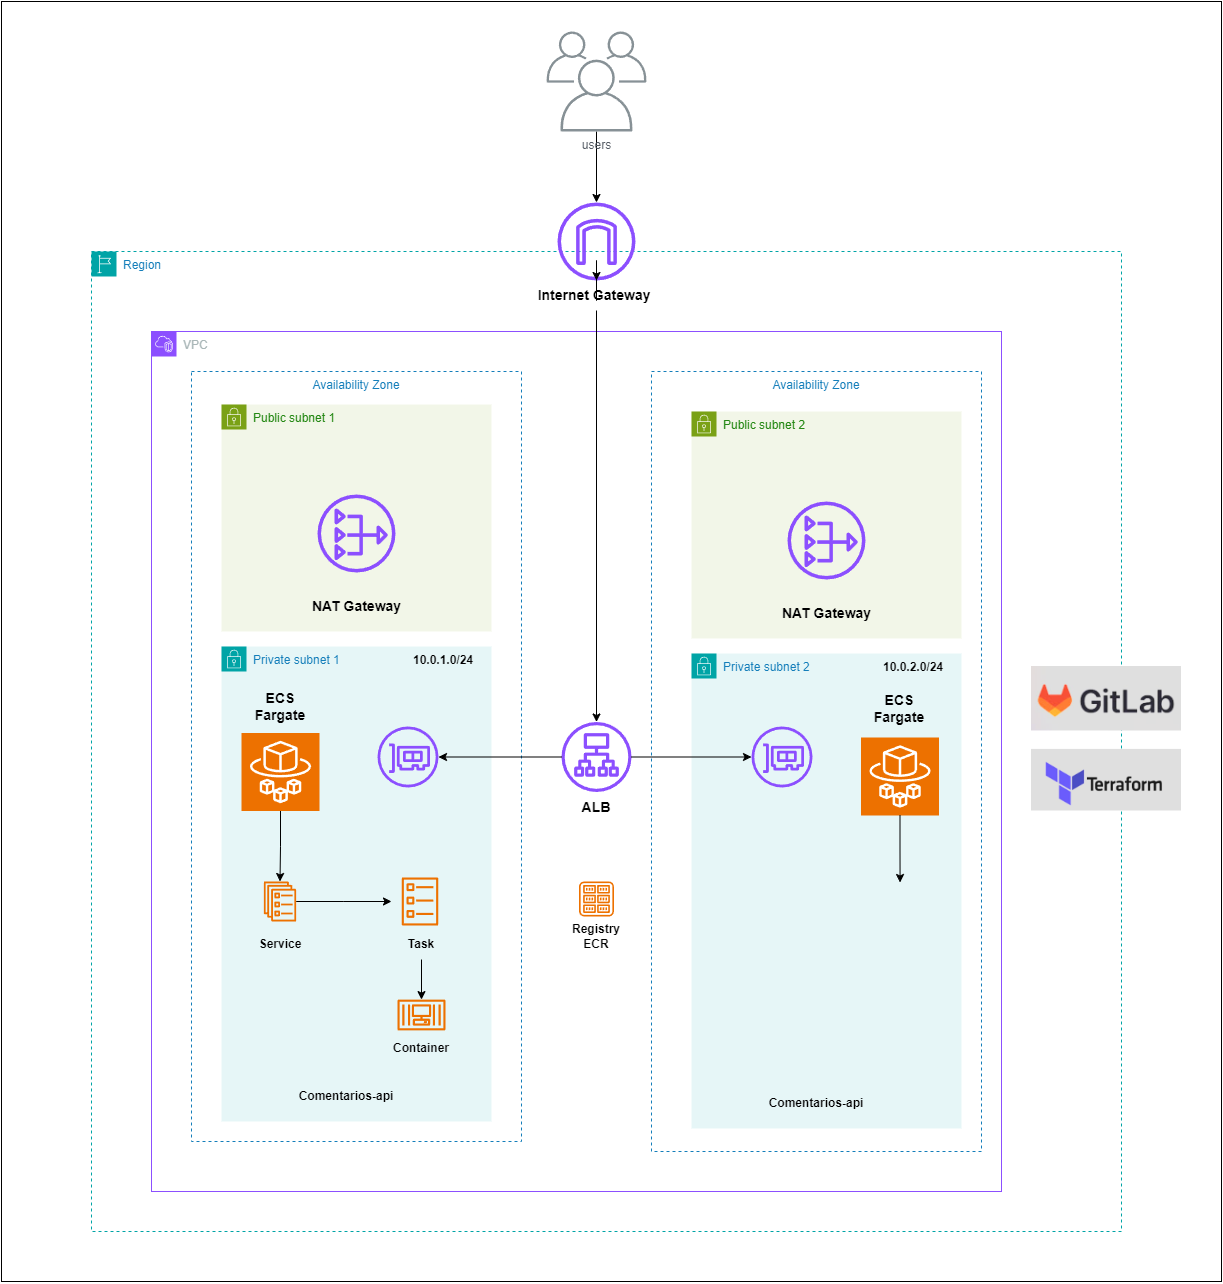
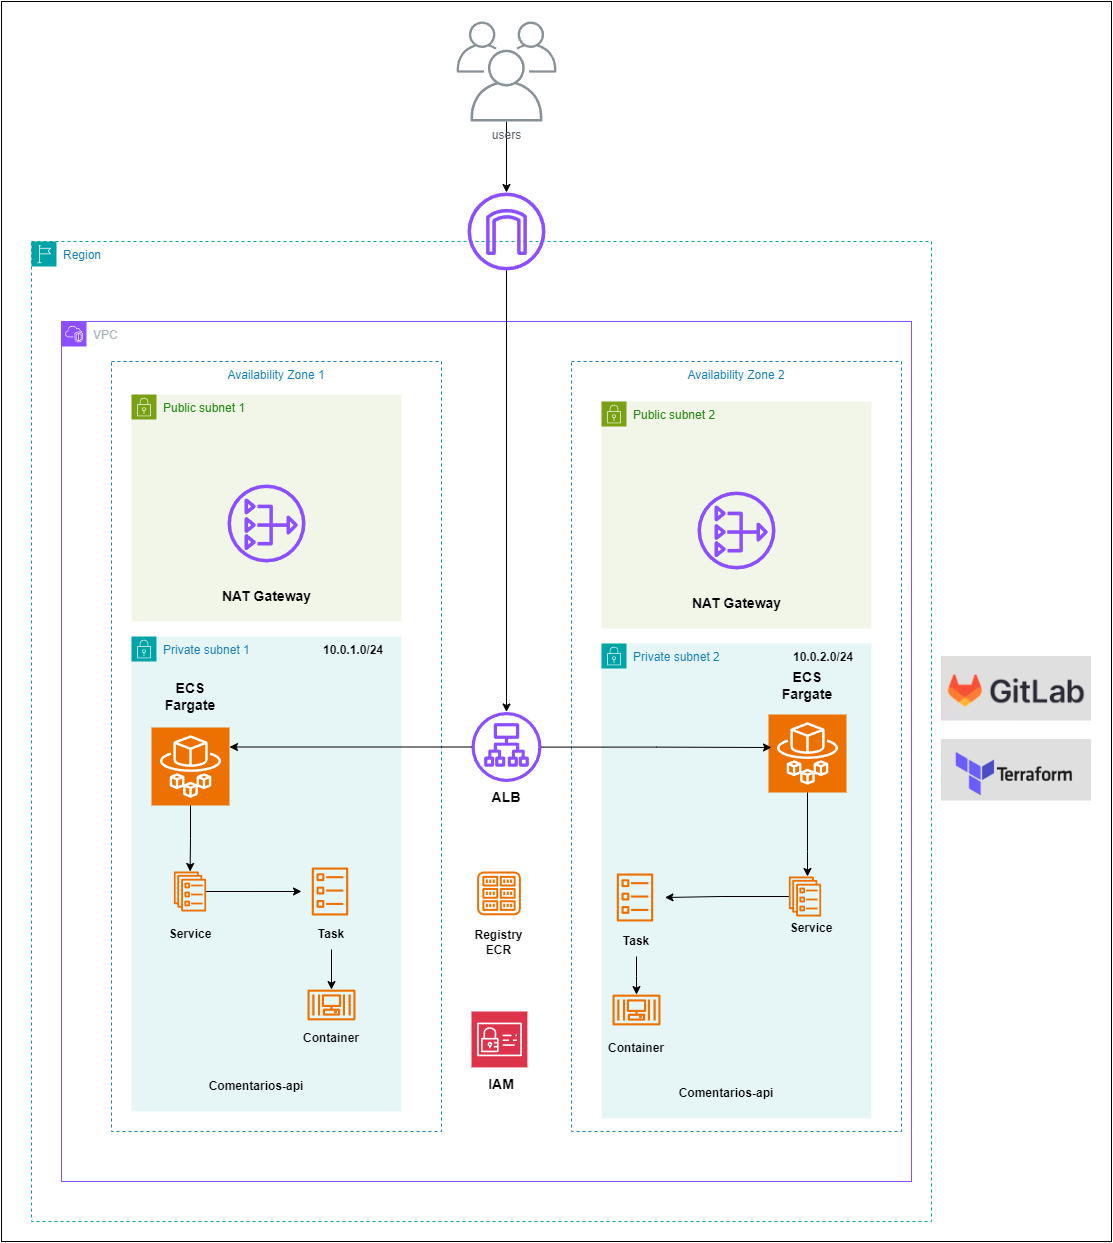
Adicionando mais detalhes do projeto e corrigindo o diagrama da infra

diff --git a/README.md b/README.md
@@ -1,21 +1,21 @@
 # Automação da infraestrutura
 
-Repositório do projeto [terraform-ecs-fargate](https://gitlab.com/souzafpv/terraform-ecs-fargate), executa a pipeline CI/CD para deploy da infraestrutura ma AWS.
+Repositório do projeto [terraform-ecs-fargate](https://gitlab.com/souzafpv/terraform-ecs-fargate), executa a pipeline CI/CD para deploy da infraestrutura na AWS.
 
 
 ## AWS ECS Fargate
-Executando aplicações em contêiner na nuvem sem gerenciar servidores EC2
+Executando aplicações em contêiner na nuvem sem a necessidade de gerenciar Instâncias EC2
 
 ## Diagrama da Infraestrutura 
 <img title="Diagrama da Infraestrutura" alt="Diagrama da Infraestrutura" src="infra-ecs-fargate.png">
 
-## Recursos
+## Recursos provisionados
 
 - Virtual Private Cloud (VPC)
 - Balanceador de Carga de Aplicação (ALB)
 - Definição de Cluster, Serviço e Tarefa do ECS
 - Gerenciamento de Acesso à Identidade (IAM)
-- Grupos Segurança
+- Grupos de Segurança
 - Grupo de log do CloudWatch
 - Repositório de imagens ECR
 
@@ -23,7 +23,7 @@ Executando aplicações em contêiner na nuvem sem gerenciar servidores EC2
 
 Provisionar todos os recursos para executar a Aplicação.
 
-## Configura o TFC
+## Configura o TFC para backend dos tfstates
 ```
     terraform {
 

diff --git a/COMMENTS.md b/COMMENTS.md
@@ -1,8 +1,26 @@
+## O que será avaliado na sua solução?
+
+* Automação da infra, provisionamento dos hosts (IaaS) [Provisionado com Terraform]
+
+* Automação de setup e configuração dos hosts (IaC)[Provisionado com Terraform e Ansible]
+
+* Pipeline de deploy automatizado [Gitlab.com]
+
+* Monitoramento dos serviços e métricas da aplicação [Grafana.com]
+
 ## Fazer:
 - rollback do container/image/codigo
 - pipeline com tag
 - pepeline deploy terraform na mesa pepeline da app
+- Configura o TFC para backend dos tfstates mas poderia ser com S3 e DynamoDB servido como Backend
 
 ## Recursos
 
 - incluir autoscale
+
+## Monitoraca / Observabilidade
+
+CloudWatch
+Grafana
+Dynatrace
+Datadog
